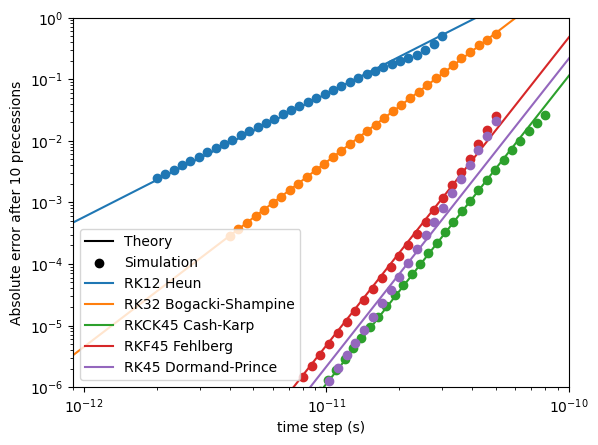
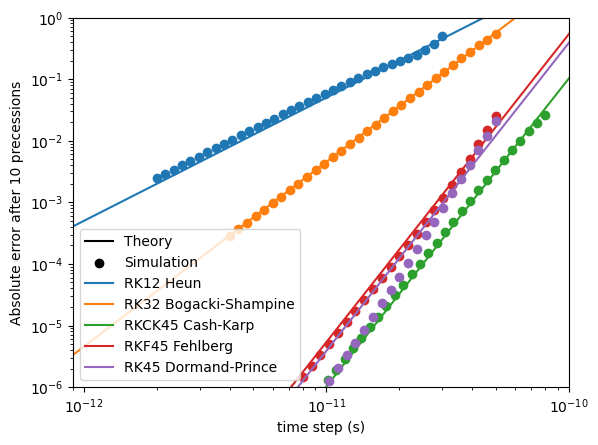
Improve position of fit lines

diff --git a/docs/tutorial/precision.rst b/docs/tutorial/precision.rst
@@ -165,7 +165,7 @@ Below, we compare the numerical and analytical result of 10 precessions of one s
 
             plt.scatter(dts[i], error, marker="o", zorder=2)
 
-            intercept = np.polyfit(log_dts, log_error - log_dts * exact_order[i], 0)
+            intercept = np.polyfit(log_dts[-10:], log_error[-10:] - log_dts[-10:] * exact_order[i], 0) # Only fit the end of the lines
             plt.plot(np.array([1e-14, 1e-9]), (10**intercept)*np.array([1e-14, 1e-9])**exact_order[i], label=f"{RK_names[i]} {exact_names[i]}")
 
         plt.legend()
